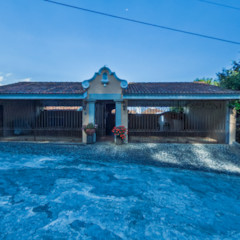
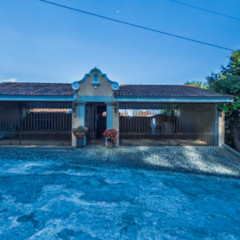
actualizacion tour

diff --git a/miraelvalle/skin.js b/miraelvalle/skin.js
@@ -1,7 +1,7 @@
 // Garden Gnome Software - Skin
 // Pano2VR 8.0 beta 2/22072
 // Filename: feather_box_tours.ggsk
-// Generated 2026-03-05T03:48:03Z
+// Generated 2026-03-07T21:57:54Z
 
 function pano2vrSkin(player,base) {
 	player.addVariable('vis_sounds_splashscreen', 2, false, { ignoreInState: 1  });
@@ -722,12 +722,12 @@ function pano2vrSkin(player,base) {
 		el.userData=el;
 		hs ='';
 		hs+='height : 100%;';
-		hs+='left : 0px;';
+		hs+='left : -101px;';
 		hs+='opacity : 0;';
 		hs+='position : absolute;';
-		hs+='top : 0px;';
+		hs+='top : -91px;';
 		hs+='visibility : hidden;';
-		hs+='width : 100%;';
+		hs+='width : 105.1%;';
 		hs+='pointer-events:none;';
 		el.setAttribute('style',hs);
 		el.style.transformOrigin='50% 50%';
@@ -2721,8 +2721,8 @@ function pano2vrSkin(player,base) {
 		hs+='cursor : pointer;';
 		hs+='height : 50px;';
 		hs+='position : absolute;';
-		hs+='right : 0px;';
-		hs+='top : 0px;';
+		hs+='right : 1px;';
+		hs+='top : -2px;';
 		hs+='visibility : inherit;';
 		hs+='width : 50px;';
 		hs+='pointer-events:auto;';
@@ -2789,8 +2789,8 @@ navigator.share({ url: shareUrl });
 		hs ='';
 		hs+='height : 38px;';
 		hs+='position : absolute;';
-		hs+='right : 6px;';
-		hs+='top : 6px;';
+		hs+='right : 5px;';
+		hs+='top : 7px;';
 		hs+='visibility : inherit;';
 		hs+='width : 38px;';
 		hs+='pointer-events:auto;';
@@ -11080,9 +11080,9 @@ alert("The current view has been copied.");
 		el.userData=el;
 		hs ='';
 		hs+='height : 101px;';
-		hs+='left : 10px;';
 		hs+='position : absolute;';
-		hs+='top : 8px;';
+		hs+='right : 50px;';
+		hs+='top : 9px;';
 		hs+='visibility : inherit;';
 		hs+='width : 132px;';
 		hs+='pointer-events:auto;';
@@ -11123,63 +11123,6 @@ alert("The current view has been copied.");
 		me._container_1.ggUpdatePosition=function (useTransition) {
 		}
 		me.divSkin.appendChild(me._container_1);
-		el=me._text_1=document.createElement('div');
-		els=me._text_1__text=document.createElement('div');
-		el.className='ggskin ggskin_textdiv';
-		el.ggTextDiv=els;
-		el.ggId="Text 1";
-		el.ggParameter={ rx:0,ry:0,a:0,sx:1,sy:1,def:'' };
-		el.ggVisible=true;
-		el.className="ggskin ggskin_text ";
-		el.ggType='text';
-		el.userData=el;
-		hs ='';
-		hs+='color : #000000;';
-		hs+='height : auto;';
-		hs+='left : 5px;';
-		hs+='position : absolute;';
-		hs+='top : 119px;';
-		hs+='visibility : inherit;';
-		hs+='width : 372px;';
-		hs+='pointer-events:auto;';
-		el.setAttribute('style',hs);
-		el.style.transformOrigin='50% 50%';
-		hs='';
-		hs+='border : 0px solid #000000;';
-		hs+='box-sizing: border-box;';
-		hs+='width: 100%;';
-		hs+='height: auto;';
-		hs+='font-size: 24px;';
-		hs+='font-weight: bolder;';
-		hs+='text-align: center;';
-		hs+='white-space: pre-line;';
-		hs+='padding: 0px;';
-		hs+='overflow: hidden;';
-		hs+='overflow-y: auto;';
-		els.setAttribute('style',hs);
-		me._text_1.ggUpdateText=function() {
-			var params = [];
-			var hs = player._("CASA ALTOS DE MIRAELVALLE", params);
-			if (hs!=this.ggText) {
-				this.ggText=hs;
-				this.ggTextDiv.innerHTML=hs;
-				if (this.ggUpdatePosition) this.ggUpdatePosition();
-			}
-		}
-		me._text_1.ggUpdateText();
-		el.appendChild(els);
-		me._text_1.ggIsActive=function() {
-			return false;
-		}
-		el.ggElementNodeId=function() {
-			return player.getCurrentNode();
-		}
-		me._text_1.onclick=function (e) {
-			player.openUrl("https:\/\/www.zona-innmueble.com\/inmuebles","_blank");
-		}
-		me._text_1.ggUpdatePosition=function (useTransition) {
-		}
-		me.divSkin.appendChild(me._text_1);
 		el=me._text_2=document.createElement('div');
 		els=me._text_2__text=document.createElement('div');
 		el.className='ggskin ggskin_textdiv';

diff --git a/miraelvalle/index.html b/miraelvalle/index.html
@@ -2,11 +2,15 @@
 <html>
 	<head>
 		<meta http-equiv="Content-Type" content="text/html;charset=UTF-8" />
-		<title></title>
+		<title>[Miralvalle](https://www.zona-innmueble.com/inmuebles)
+
+</title>
 		<meta name="viewport" content="width=device-width, initial-scale=1.0, minimum-scale=1.0, maximum-scale=1.0" />
 		<meta name="apple-mobile-web-app-capable" content="yes" />
 		<meta name="apple-mobile-web-app-status-bar-style" content="black" />
-		<meta property="og:title" content="">
+		<meta property="og:title" content="[Miralvalle](https://www.zona-innmueble.com/inmuebles)
+
+">
 		<meta property="og:description" content="">
 		<meta name="mobile-web-app-capable" content="yes" />
 		<meta property="og:image" content="preview.jpg">
@@ -36,9 +40,9 @@
 	</head>
 	<body>
 <!-- - - - - - - 8<- - - - - - cut here - - - - - 8<- - - - - - - -->
-		<script type="text/javascript" src="pano2vr_player.js?ts=82486158">
+		<script type="text/javascript" src="pano2vr_player.js?ts=20674745">
 		</script>
-		<script type="text/javascript" src="skin.js?ts=82486158">
+		<script type="text/javascript" src="skin.js?ts=20674745">
 		</script>
 		<script src="3rdparty/lottie/lottie.min.js"></script>
 		<div id="container" style="width:100%;height:100%;overflow:hidden;">
@@ -90,12 +94,12 @@
 			pano=new pano2vrPlayer("container");
 			pano.startNode = startNode;
 			pano.startView = startView;
-			pano.setQueryParameter("ts=82486158")
+			pano.setQueryParameter("ts=20674745")
 			// add the skin object
 			skin=new pano2vrSkin(pano);
 			// load the configuration
 			window.addEventListener("load", function() {
-				pano.readConfigUrlAsync("pano.xml?ts=82486158");
+				pano.readConfigUrlAsync("pano.xml?ts=20674745");
 			});
 			if (window.navigator.userAgent.match(/Safari/i)) {
 				// fix for white borders, rotation on iPhone
